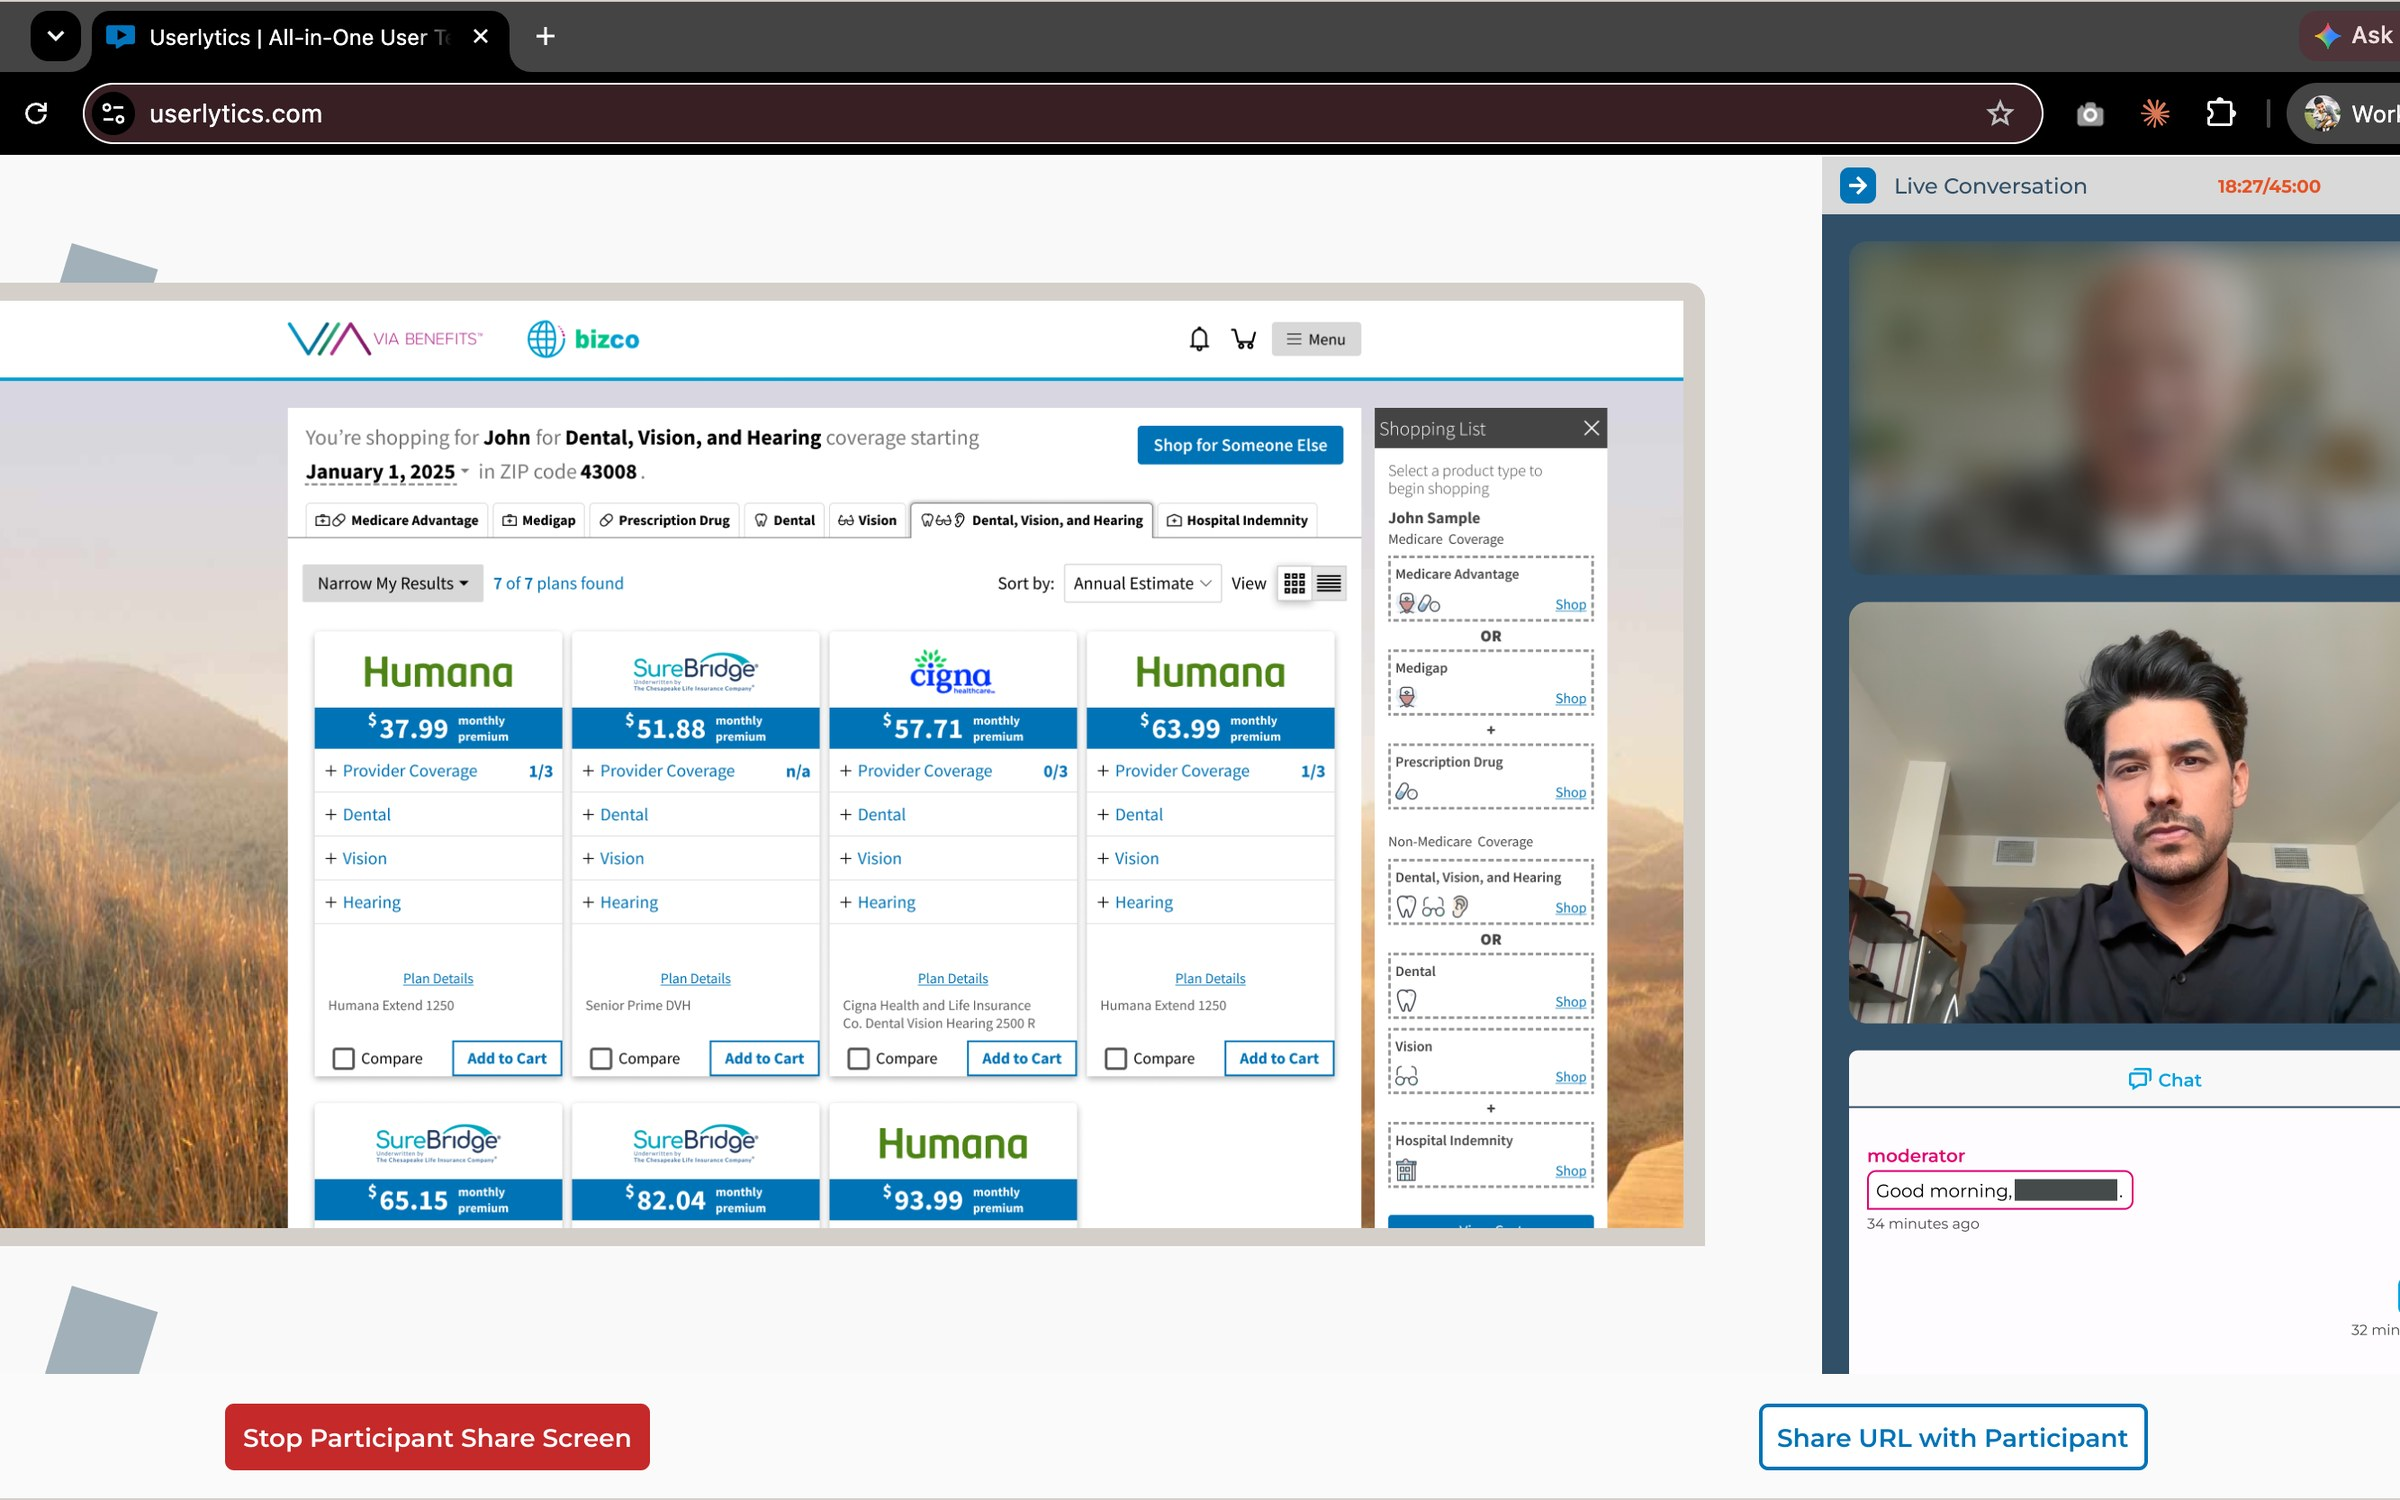
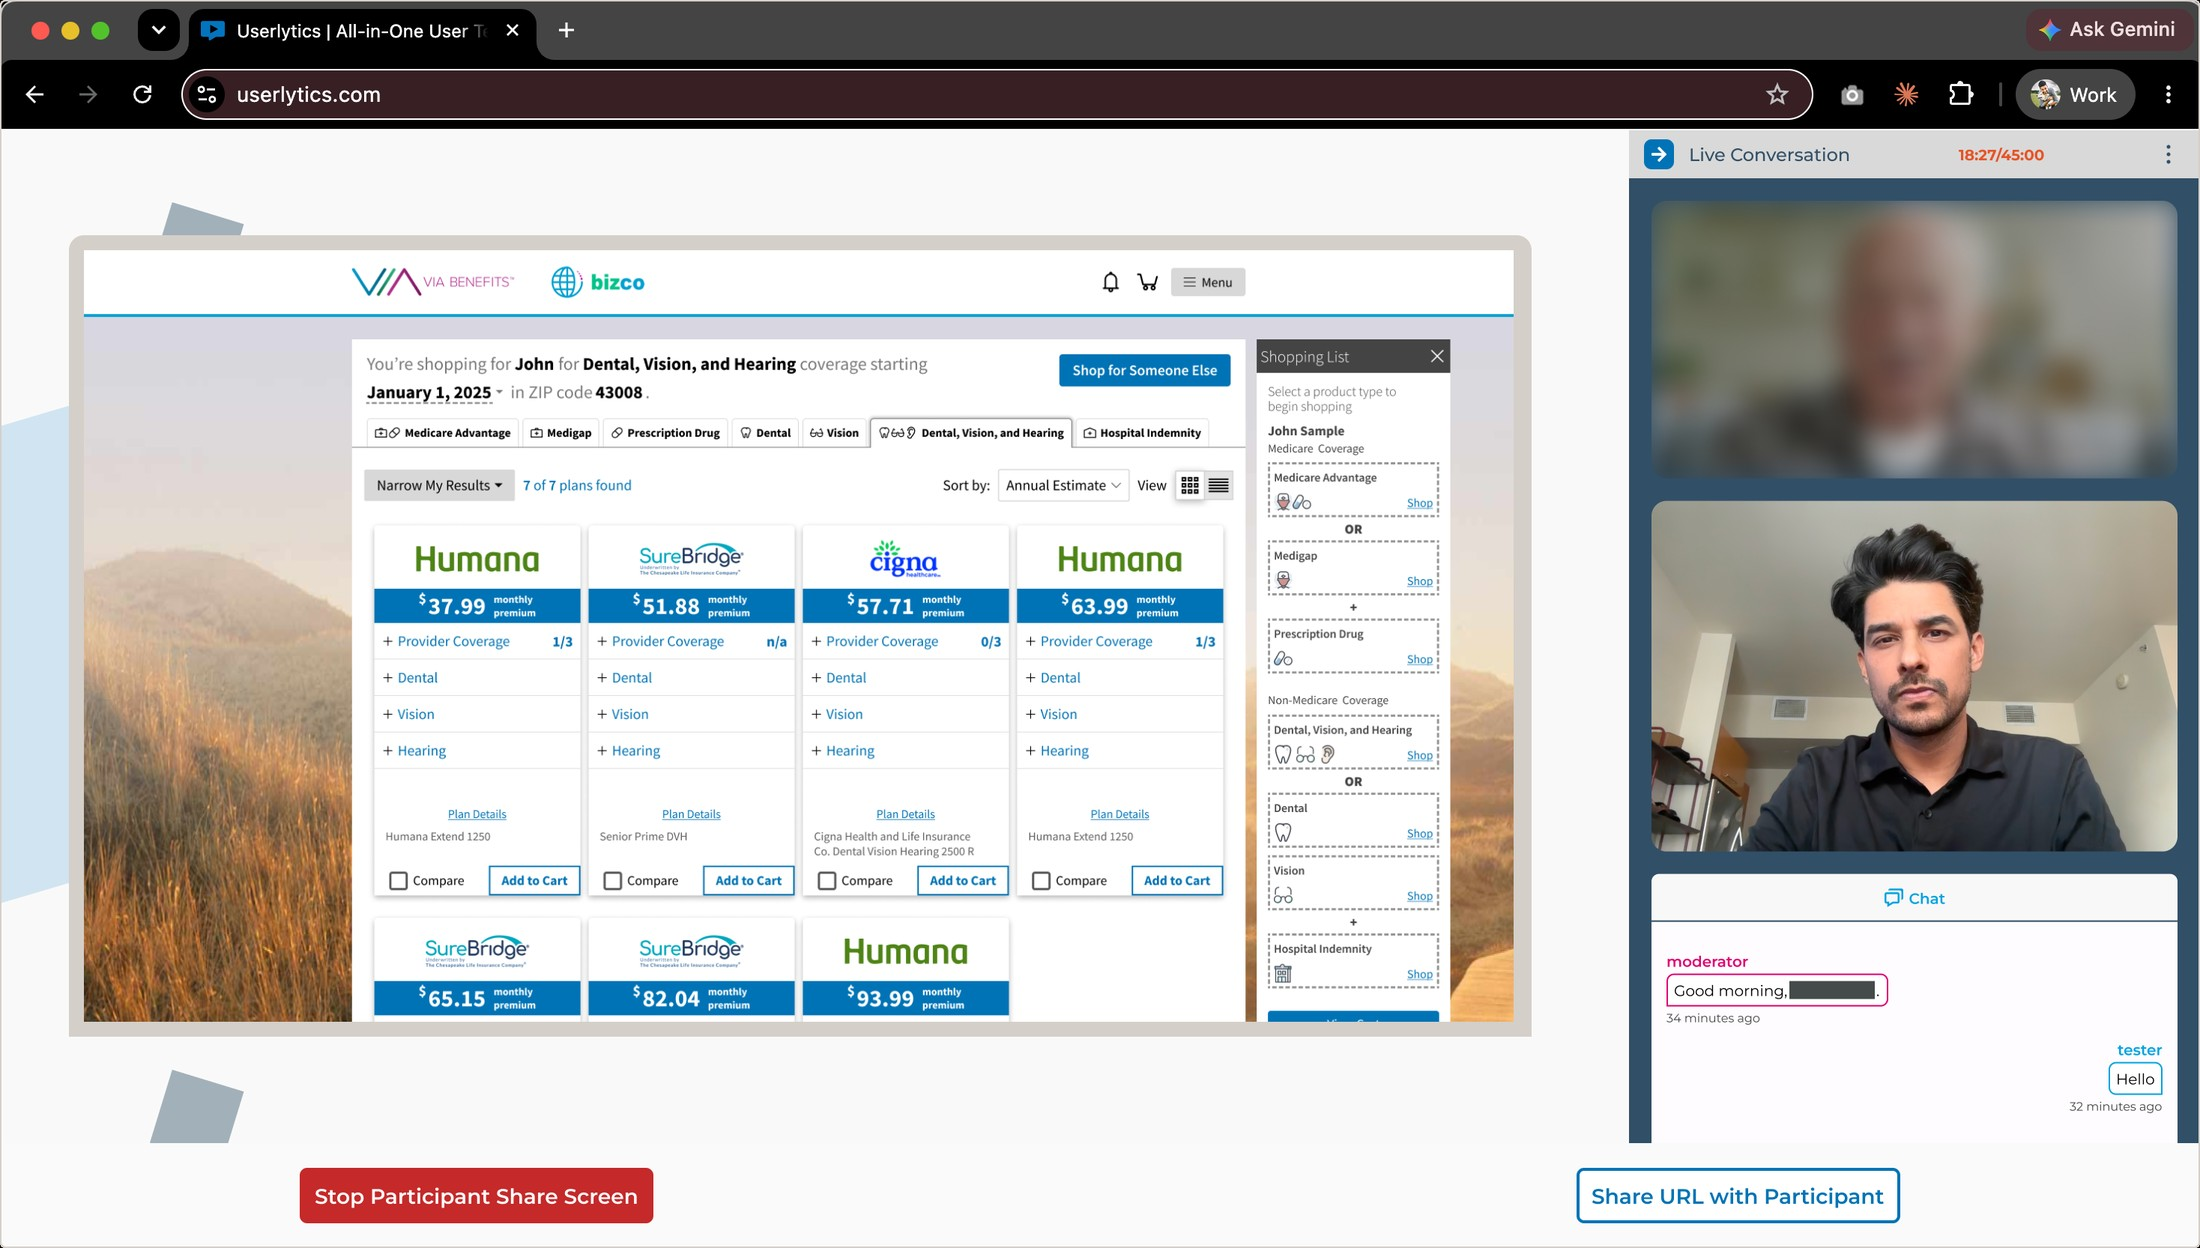
Render hero at natural aspect ratio instead of forced 16:10 crop
- Add heroFit prop to ProjectPage ('cover' default, 'natural' opt-in)
- Ancillary Journey now shows the full uncropped screenshot

diff --git a/app/components/ProjectPage.tsx b/app/components/ProjectPage.tsx
@@ -17,11 +17,12 @@ interface ProjectPageProps {
   gallery: { src: string; alt: string; caption?: string }[];
   cta: { title: string };
   hero?: string;
+  heroFit?: 'cover' | 'natural';
   next: { title: string; href: string; type: 'case-study' | 'project' };
   children?: React.ReactNode;
 }
 
-export default function ProjectPage({ title, company, tags, hook, details, sections, gallery, cta, next, hero, children }: ProjectPageProps) {
+export default function ProjectPage({ title, company, tags, hook, details, sections, gallery, cta, next, hero, heroFit = 'cover', children }: ProjectPageProps) {
   const [modalOpen, setModalOpen] = useState(false)
 
   return (
@@ -42,9 +43,16 @@ export default function ProjectPage({ title, company, tags, hook, details, secti
 
       <div style={{ maxWidth: 'var(--max-w)', margin: '0 auto', padding: '0 3rem 3rem' }}>
         {hero ? (
-          <div style={{ position: 'relative', width: '100%', aspectRatio: '16/10', borderRadius: 'var(--radius-sm)', overflow: 'hidden' }}>
-            <Image src={hero} alt={title} fill style={{ objectFit: 'cover', objectPosition: 'center center' }} sizes="100vw" />
-          </div>
+          heroFit === 'natural' ? (
+            <div style={{ width: '100%', borderRadius: 'var(--radius-sm)', overflow: 'hidden', lineHeight: 0 }}>
+              {/* eslint-disable-next-line @next/next/no-img-element */}
+              <img src={hero} alt={title} style={{ width: '100%', height: 'auto', display: 'block' }} />
+            </div>
+          ) : (
+            <div style={{ position: 'relative', width: '100%', aspectRatio: '16/10', borderRadius: 'var(--radius-sm)', overflow: 'hidden' }}>
+              <Image src={hero} alt={title} fill style={{ objectFit: 'cover', objectPosition: 'center center' }} sizes="100vw" />
+            </div>
+          )
         ) : (
           <div style={{ width: '100%', height: 400, background: 'var(--color-border)', borderRadius: 'var(--radius-sm)', display: 'flex', alignItems: 'center', justifyContent: 'center', fontSize: 'var(--font-size-sm)', color: 'var(--color-text-muted)', letterSpacing: 'var(--letter-spacing-md)', textTransform: 'uppercase' as const }}>Hero Project Image</div>
         )}

diff --git a/app/work/ancillary-journey/page.tsx b/app/work/ancillary-journey/page.tsx
@@ -38,6 +38,7 @@ export default function Page() {
     tags={['Usability Research', 'Mixed-Methods Research']}
     hook="Medicare enrollees shopping for dental, vision, and hearing coverage face a product category most people have never had to think about before. My research set out to understand where the confusion lived — and what it would take to remove it."
     hero="/images/work/ancillary-journey/ancillary-journey-session.jpg"
+    heroFit="natural"
     details={[{ label: 'Company', value: 'Willis Towers Watson' }, { label: 'Role', value: 'UX Researcher' }, { label: 'Methods', value: 'Moderated Usability Sessions, Qualitative Interviews' }, { label: 'Disciplines', value: 'Usability Research, Mixed-Methods Research' }]}
     sections={[
       { label: 'The Brief', title: 'A deep dive into ancillary insurance navigation', body: ['Via Benefits offered ancillary insurance products — dental, vision, and hearing coverage — as part of its broader Medicare shopping experience. The team needed a qualitative deep dive into how enrollees actually navigated this category, where comprehension broke down, and what could be done to streamline the decision-making process.'] },
